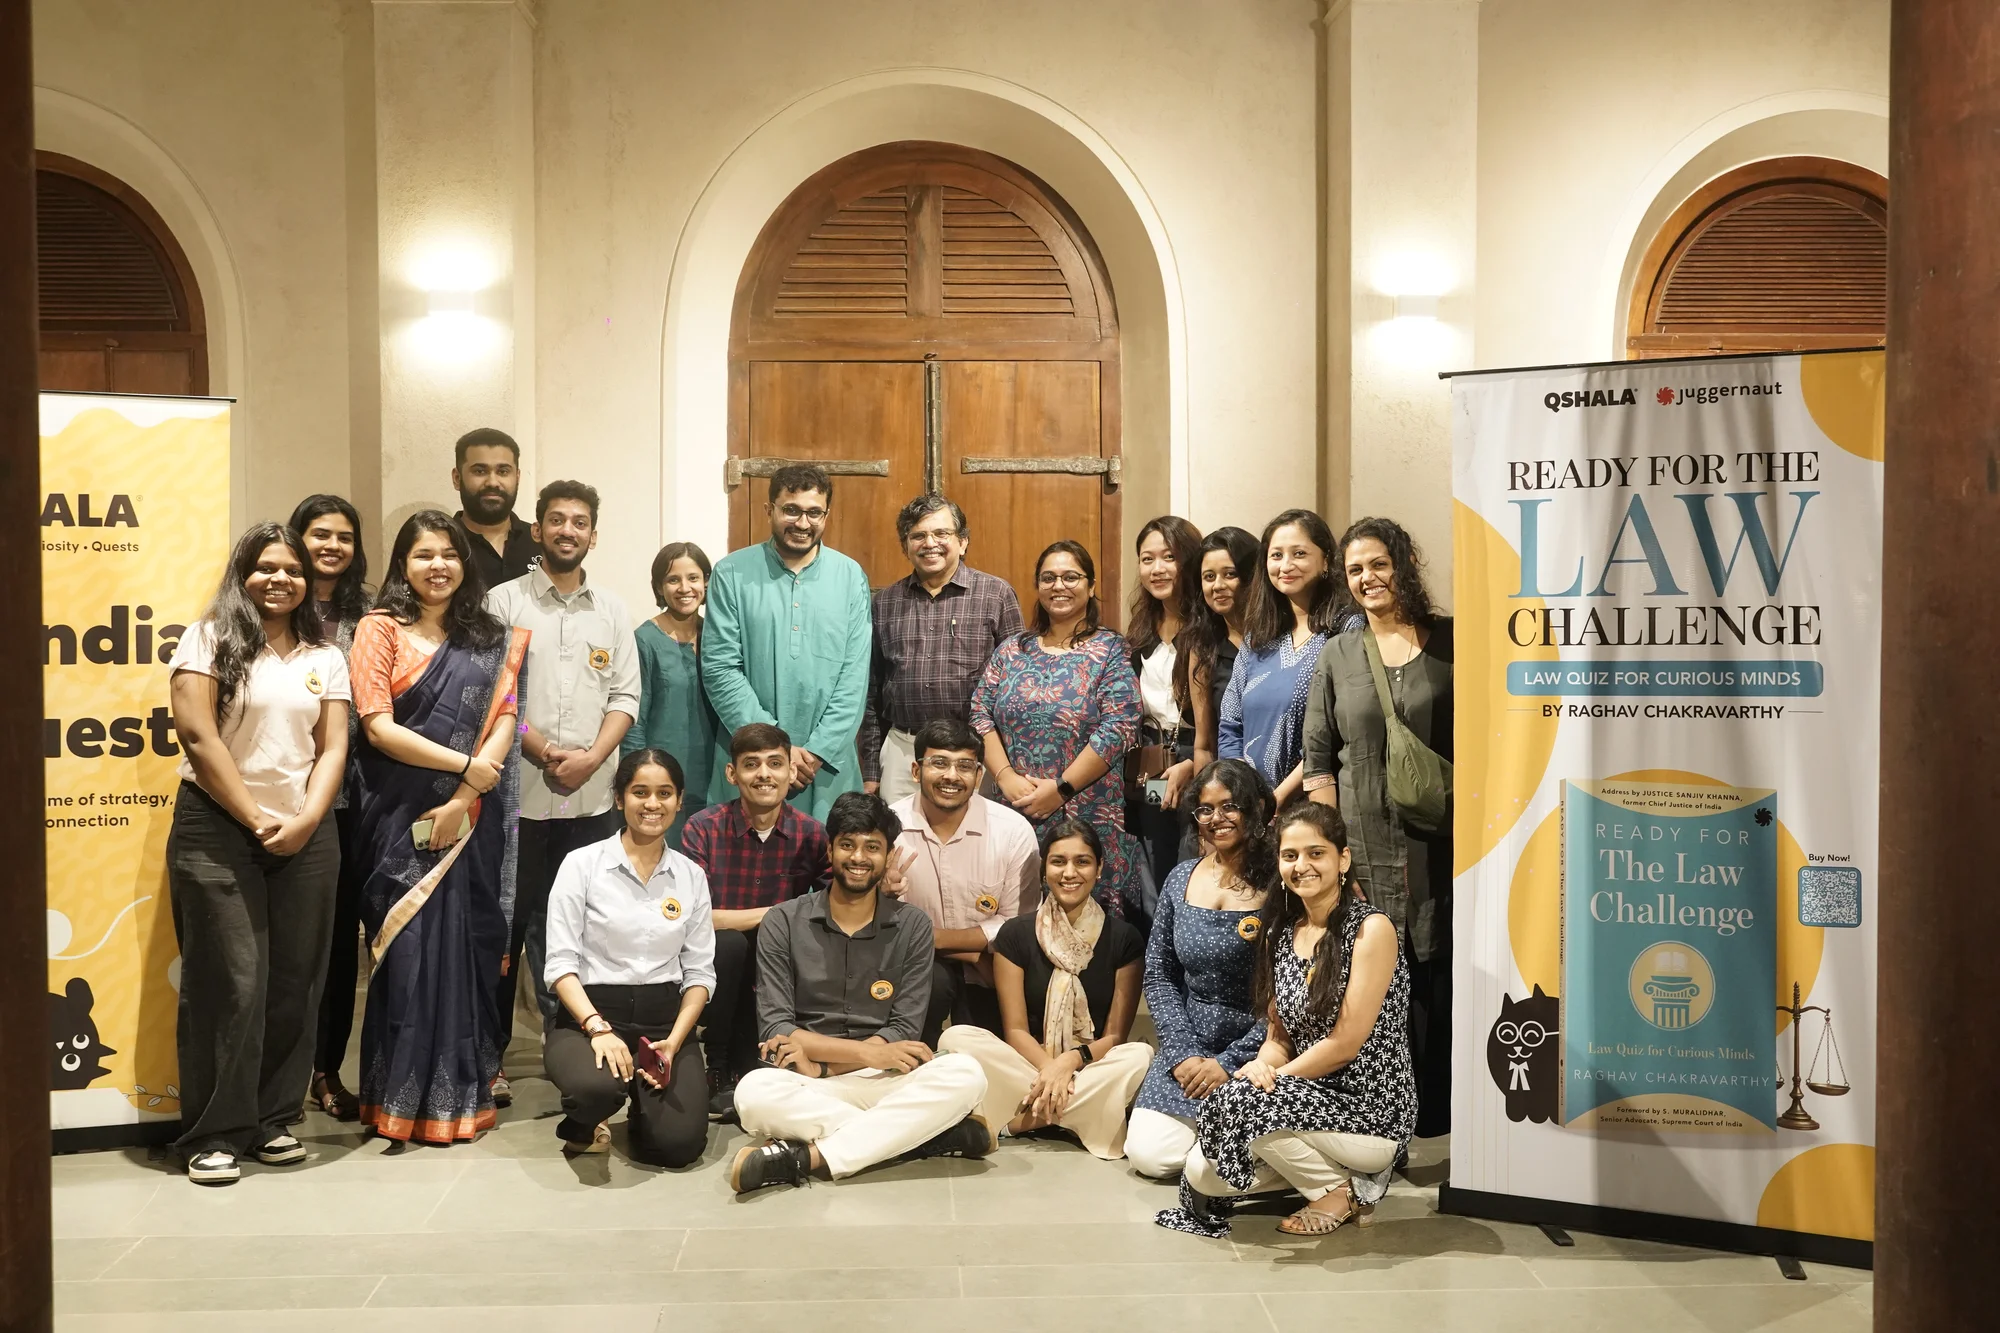
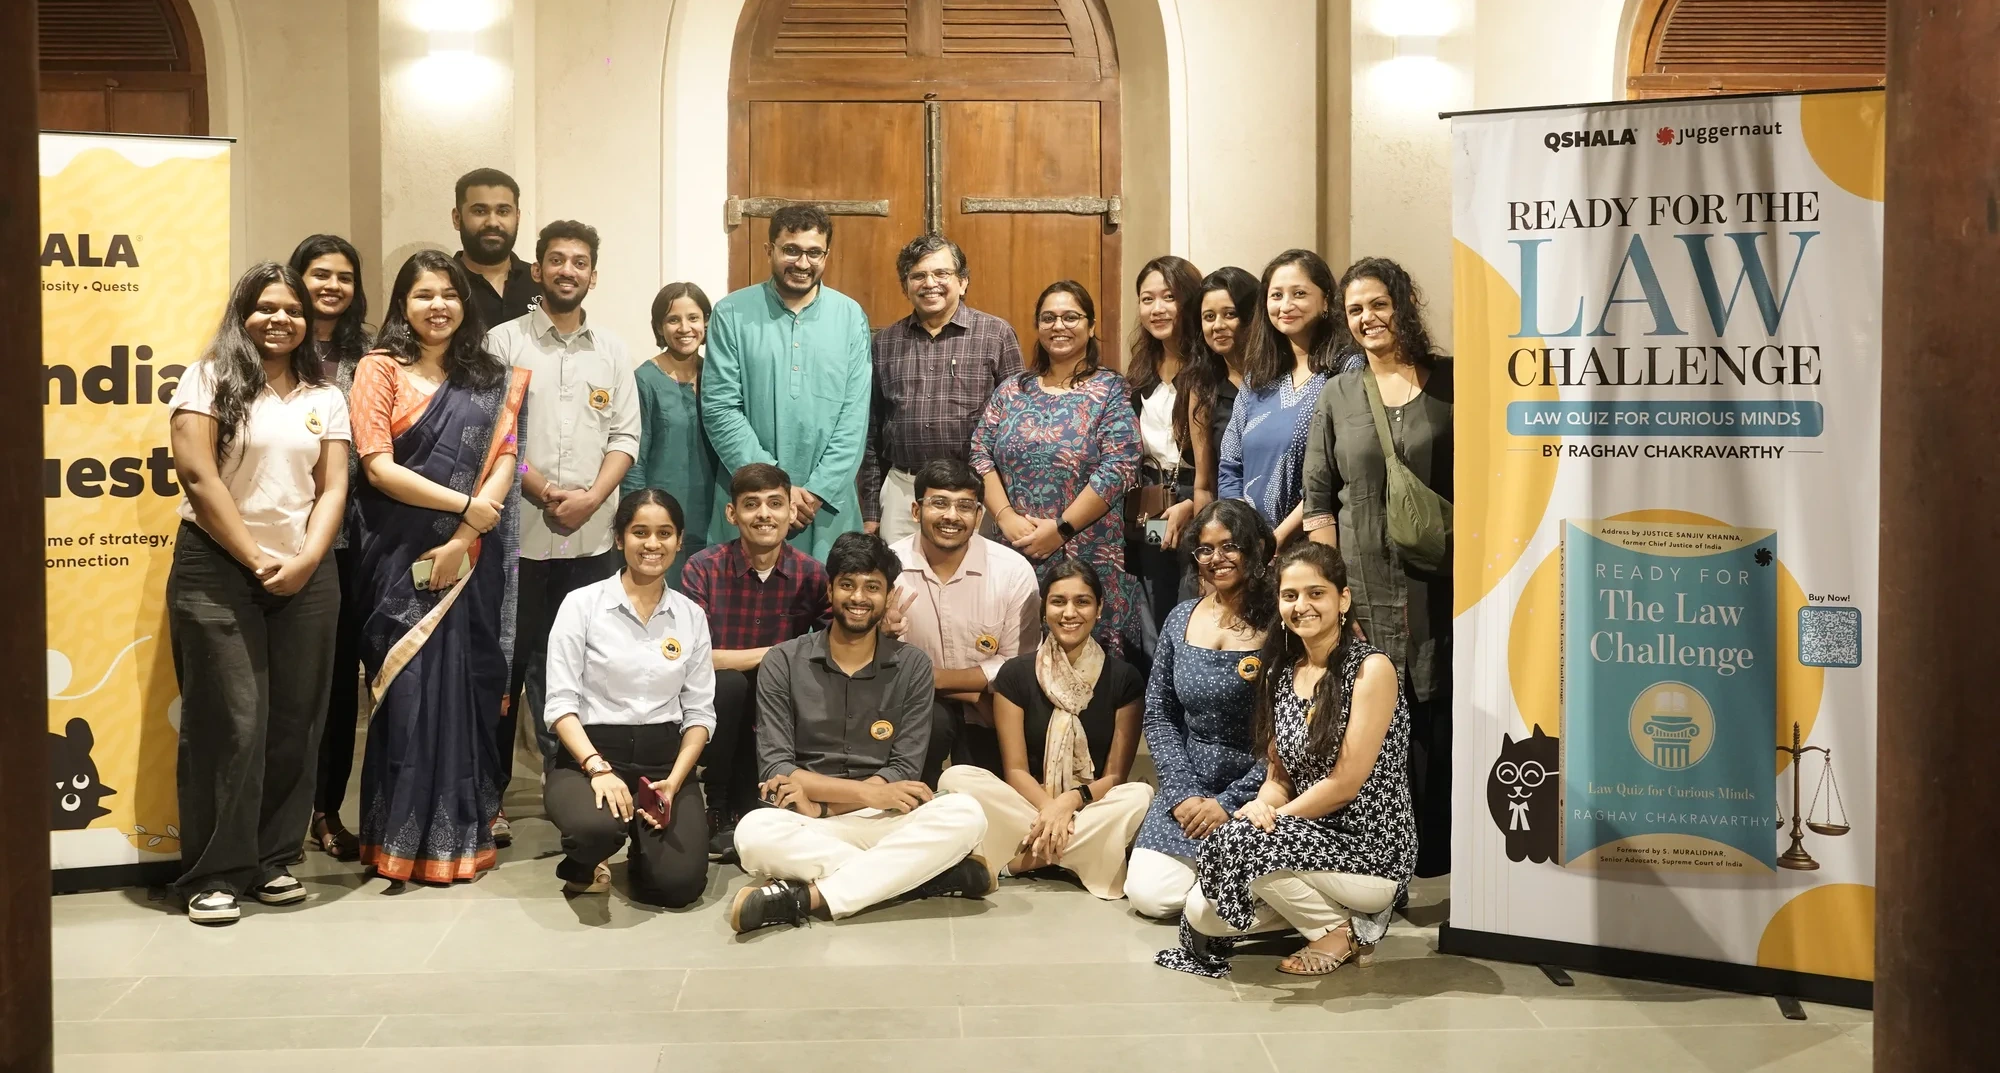
fix(media): crop ceiling from contact team photo and enable hotspot crop in sanity image builder

diff --git a/src/lib/sanity/image.ts b/src/lib/sanity/image.ts
@@ -3,7 +3,12 @@ import { sanityClient, isSanityConfigured } from './client';
 
 const builder = isSanityConfigured() ? imageUrlBuilder(sanityClient) : null;
 
-export function getImageUrl(source: any, widthOrFallback?: number | string, height?: number): string {
+export function getImageUrl(
+  source: any,
+  widthOrFallback?: number | string,
+  height?: number,
+  fit: 'crop' | 'max' | 'fill' | 'clip' = 'crop'
+): string {
   const fallback = typeof widthOrFallback === 'string' ? widthOrFallback : '';
   if (!source) return fallback;
   if (typeof source === 'string') return source;
@@ -15,7 +20,10 @@ export function getImageUrl(source: any, widthOrFallback?: number | string, heig
     let img = builder.image(source).auto('format');
     if (typeof widthOrFallback === 'number') img = img.width(widthOrFallback);
     if (typeof height === 'number') img = img.height(height);
-    return img.fit('max').url();
+    
+    // When both width and height are given, use fit('crop') to respect Sanity's hotspot & crop metadata
+    const activeFit = (typeof widthOrFallback === 'number' && typeof height === 'number') ? fit : 'max';
+    return img.fit(activeFit).url();
   } catch {
     return fallback;
   }
